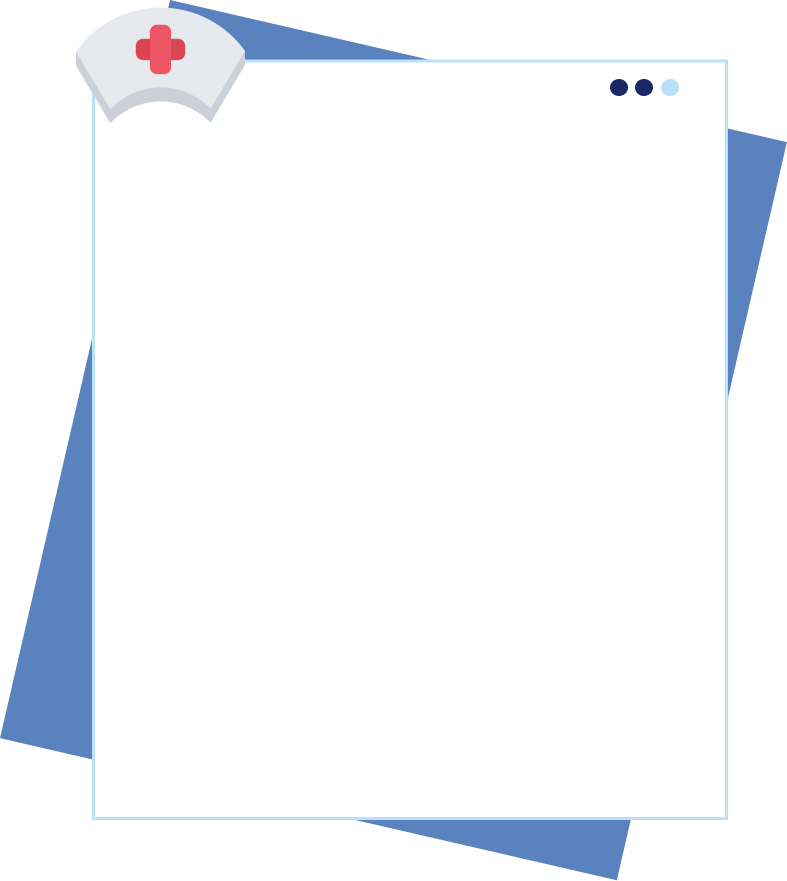
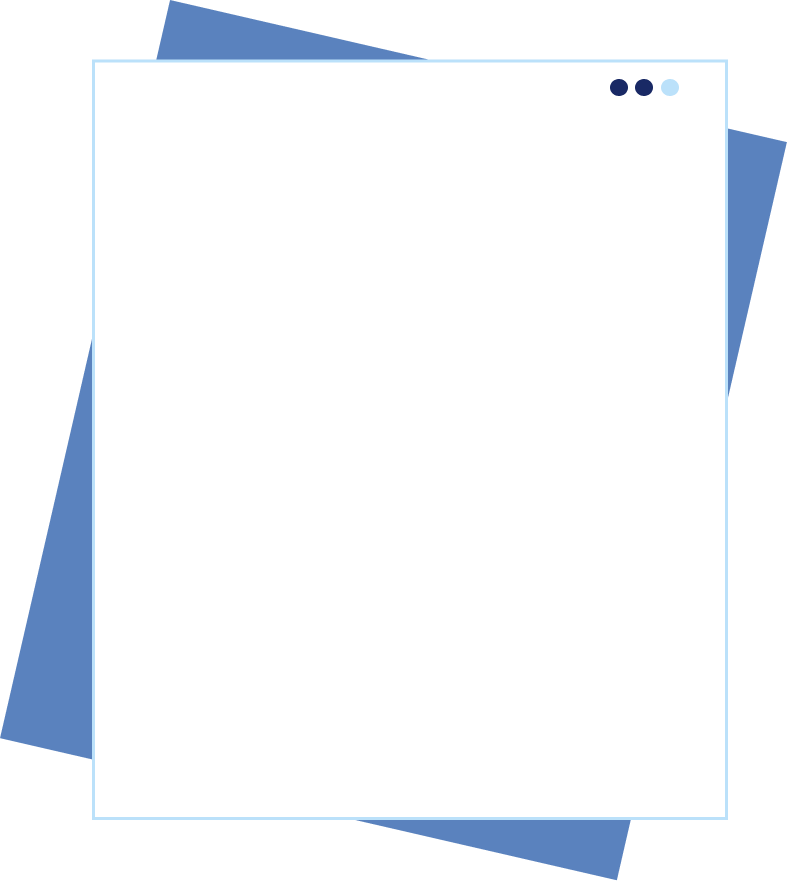
UIIBuild: redesign sign up and log in frame

Changed region(s): [[0.0915, 0.0, 0.3355, 0.1532]]

diff --git a/frontend/docvisitui/src/pages/personal-site/personal-site.jsx b/frontend/docvisitui/src/pages/personal-site/personal-site.jsx
@@ -14,17 +14,12 @@ function PersonalSite(){
         <div className="account-layout">
           <div>
             <div id="avatar"></div>
-            <Link>
-              <div className="bubble visit-doctors-page">
-                <i class="material-icons">assignment</i>
-              </div>
-            </Link>
             <Link to="/doctors">
               <div className="bubble my-documents">
                 <i class="material-icons">people</i>
               </div>
             </Link>
-            <Link>
+            <Link to="/calendar">
               <div className="bubble my-calendar">
                 <i class="material-icons">calendar_today</i>
               </div>
@@ -32,6 +27,7 @@ function PersonalSite(){
           </div>
           <h2 className="patient-name">Name example</h2>
         </div>
+        <div id="account-vector"></div>
       </div>
     );
 }

diff --git a/frontend/docvisitui/src/pages/personal-site/personal-site.style.scss b/frontend/docvisitui/src/pages/personal-site/personal-site.style.scss
@@ -3,6 +3,7 @@
     margin: 10rem auto;
     display: grid;
     grid-template-columns: 1fr 1fr;
+    height: 100%;
 
 
     #avatar{
@@ -32,12 +33,6 @@
 
     .my-documents{
         top: -25rem;
-        left: -2rem;
-    }
-
-    .visit-doctors-page{
-        top: -25rem;
-        right: -2rem;
     }
 
     .my-calendar{
@@ -48,4 +43,6 @@
     .patient-name{
         margin: 2rem;
     }
+
 }
+ 
